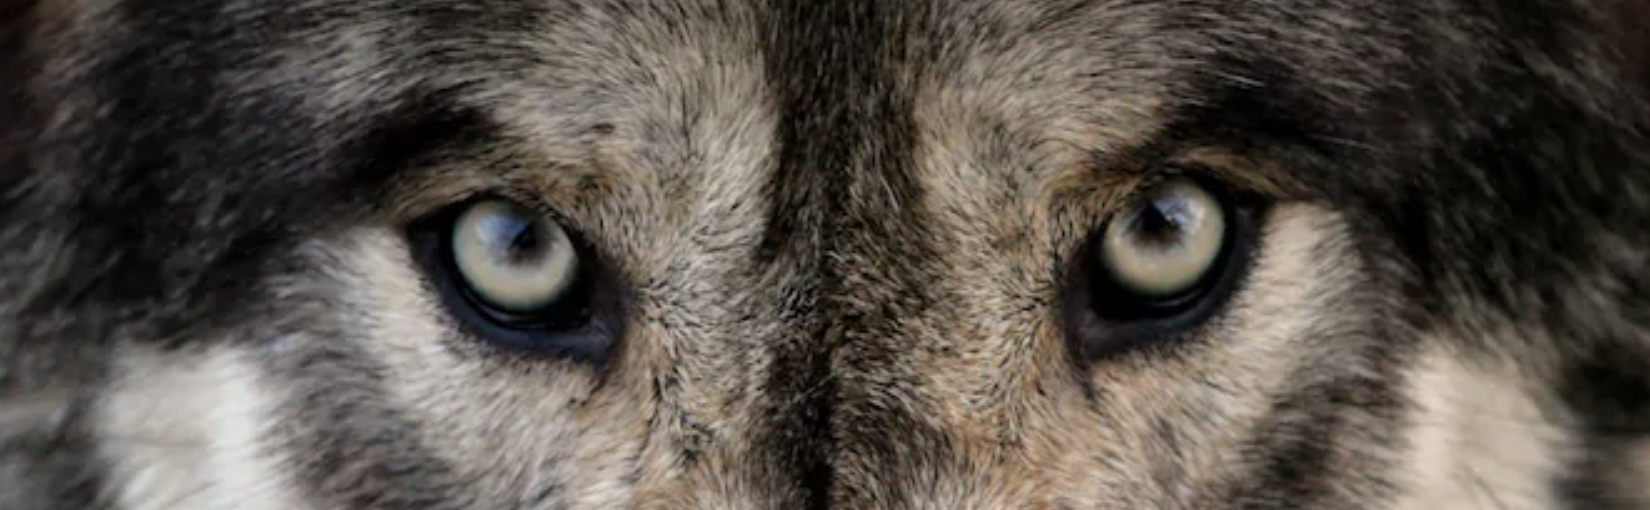
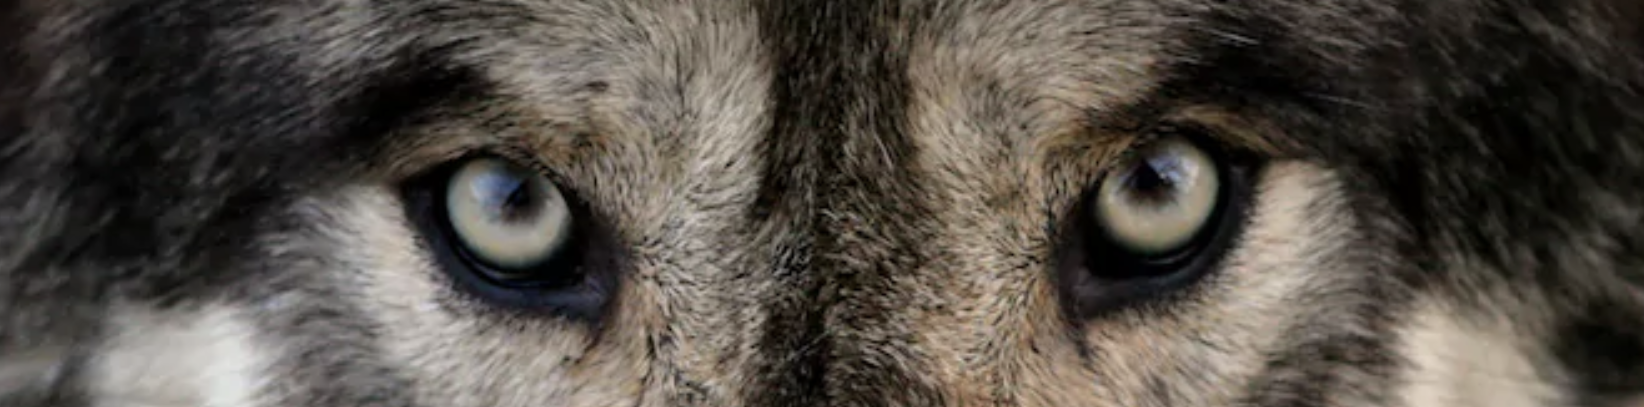
Se agrega modal y funcion de limpiar fomulario de -Quienes-

diff --git a/src/app/Components/quienes/quienes.component.html b/src/app/Components/quienes/quienes.component.html
@@ -1,9 +1,9 @@
-<div class="container">
+<div class="container letraStyle">
     <img src="../../../assets/ojosLobo.png" class="ojos">
-    <p>Caballeros Lycaon es un Motoclub (Mc) el cual se forma atra ves de un grupo de 
-        amigos que comparten la pasion por el motociclismo. Caracterizaso por un ambiente familiar y relajado.
+    <p><b class="titulos">Caballeros Lycaon</b> es un Motoclub (Mc) el cual se forma atra ves de un grupo de 
+        amigos que comparten la pasión por el motociclismo. Caracterizado por un ambiente familiar y relajado.
     </p>
-    <p>Significado del parche:
+    <p><b class="titulos">Significado del parche:</b>
         El escudo se forma principalmente por un lobo devorando una calavera. 
         Se escoge un lobo ya que representa a la mayoria de los integrantes, no solo por la vida nocturna
         tambien por la solidaridad en el grupo, la lealtan entre los miembros, el trabajo en equipo, entre todos nos cuidamos
@@ -16,18 +16,21 @@
     <div class="row">
         <div class="col-xs-12 col-md-6">
             <img src="../../../assets/cablleros.jpg" class="img-resonsive auyando" >
+            <p>
+                <b class="titulos">Nombre:</b>
+                    Nuestro nombre deriva de la leyenda del Rey Lycaon el primer rey de Arcadia, quien 
+                    junto con los sacrificios humanos estableció la antropofagia, o sea comer carne humana.
+            
+                    Sin embargo solo sacrificaba a loss forasteros, viajeros y turistas. Cuando esto llego a oidos de Zeus
+                    quiso ir a comprobarlo, se hizo pasar por un visitante, los arcadios se dieron cuenta que 
+                    era un dios porque reflejaba luz, pero el Rey Licaón, quiso saber si era o no un dios y le sirvió carne humana.
+                    Ya que pensaba que quizas seria un impostor, en cambio si éste era un Dios rechazaria la comida, 
+                    pues el canibalismo era una abominación en la cultura Griega.
+            </p>
         </div>
         <div class="col-xs-12 col-md-6">
-                <p>Nombre:
-                        Nuestro nombre dervia de la leyenda del Rey Lycaon el primer rey de Arcadia, quien 
-                        junto con los sacrificios humanos estableció la antropofagia, o sea comer carne humana.
-                
-                        Sin embargo solo sacrificaba a loss forasteros, viajeros y turistas. Cuando esto llego a oidos de Zeus
-                        quiso ir a comprobarlo, se hizo pasar por un visitante, los arcadios se dieron cuenta que 
-                        era un dios porque reflejaba luz, pero el Rey Licaón, quiso saber si era o no un dios y le sirvió carne humana.
-                        Ya que pensaba que quizas seria un impostor, en cambio si éste era un Dios rechazaria la comida, 
-                        pues el canibalismo era una abominación en la cultura Griega.
-                
+                <p>
+                   
                         En cuanto le sirvieron el festin a Zeus éste lo rechazo, enfureciendo de inmediato, 
                         con sus rayos destruyó todo, también el palacio, y como su nombre quiere decir lobo lo convirtió en un feroz lobo. 
                         Zeus maldijo al Rey Lycaon, le dio la gracia que cada diez años, sino había comido carne 
@@ -38,13 +41,13 @@
                 
                         Es asi como surge el Termino Lycantropo, pues el Rey Lycaon es el primer hombre lobo 
                         del que se tiene registro en ela historia.
-                
-                        Es de esta historia donde provienen nuestro emblema y nuestros colores (parche)
-                        El negro, representa la maldción que cayo sobre el Rey Lycaon.
-                        El blanco, representa al Dios Zeus y su resplandor cuando tormo forma humana.
-                        El rojo, la sangre de las víctimas derramada en los sacrificios.
-                        La corona, represnta al Rey Lycaon.
-                        Las estrellas, cuando se fundo el Club se empezo con 8 integrantes y es por eso que son 8 estrellas.
+                <br>
+                        Es de esta historia donde provienen nuestro emblema y nuestros colores (parche) <br>
+                        <b class="titulos">El negro,</b> representa la maldción que cayo sobre el Rey Lycaon. <br>
+                        <b class="titulos">El blanco,</b> representa al Dios Zeus y su resplandor cuando tormo forma humana.<br>
+                        <b class="titulos">El rojo,</b> la sangre de las víctimas derramada en los sacrificios.<br>
+                        <b class="titulos">La corona,</b> represnta al Rey Lycaon.<br>
+                        <b class="titulos">Las estrellas,</b> cuando se fundo el Club se empezo con 8 integrantes y es por eso que son 8 estrellas.
                     </p>
         </div>
     </div>

diff --git a/src/app/Components/formulario/formulario.component.html b/src/app/Components/formulario/formulario.component.html
@@ -1,28 +1,50 @@
-<form class="form-horizontal form-contactUs">
-    <p>Dejanos tu nombre, correo electronico y nosotros te responderemos a la brevedad,
-         os si lo deseas nos puedes contactar por nuestras redes sociales</p>
+<form class="form-horizontal form-contactUs" #f="ngForm" (ngSubmit)="f.form.valid && enviarMsj(f)">
+    <p>Dejanos tu nombre, correo electrónico y nosotros te responderemos a la brevedad,
+         ó si lo deseas nos puedes contactar por nuestras redes sociales.</p>
     <div class="row">
       <div class="col-md-6"> 
           <div class="form-group">
-              <label class="label-text control-label" for="nombre">Nombre</label>
-              <input type="text" class="form-control mb-2" id="nombre" placeholder="Nombre" required>
+              <label class="label-text control-label" for="nombre">Nombre:</label>
+              <input type="text" class="form-control mb-2" id="nombre" name="nombre" placeholder="Nombre" [(ngModel)]="nombre">
           </div>
           <div class="form-group">
-              <label class="label-text control-label" for="correo">Correo</label>
+              <label class="label-text control-label" for="correo">Correo:</label>
                   <div class="input-group mb-2">
                       <div class="input-group-prepend">
                         <div class="input-group-text">@</div>
                       </div>
-                      <input type="text" class="form-control" id="correo" placeholder="Correo">
+                      <input type="text" class="form-control" id="correo" name="correo" placeholder="Correo" [(ngModel)]="correo">
                   </div>
           </div>
       </div>
       <div class="col-xs-12 col-md-6">
         <div class="form-group">
-            <label class="label-text control-label" for="text-area-msj">Deja tu mensaje</label>
-            <textarea class="form-control" id="text-area-msj" rows="3" required></textarea>
+            <label class="label-text control-label" for="textAreaMsj">Deja tu mensaje:</label>
+            <textarea class="form-control" id="textAreaMsj" name="textAreaMsj" rows="3" [(ngModel)]="textAreaMsj"></textarea>
         </div>
-              <button type="submit" class="btn btn-primary mb-2">Enviar</button>         
+        <div class="form-group d-flex justify-content-center">
+            <button type="submit" class="btn btn-secondary mb-2"
+            data-toggle="modal" data-target="#exampleModal">Enviar</button>         
+        </div>
         </div>
     </div>
 </form>
+<div class="modal fade" id="exampleModal" tabindex="-1" role="dialog" aria-labelledby="exampleModalLabel" aria-hidden="true">
+        <div class="modal-dialog" role="document">
+          <div class="modal-content text-modal">
+            <div class="modal-header color-dark">
+              <h5 class="modal-title danger-color" id="exampleModalLabel">Mensaje enviado</h5>
+              <button type="button" class="close" data-dismiss="modal" aria-label="Close">
+                <span aria-hidden="true">&times;</span>
+              </button>
+            </div>
+            <div class="modal-body">
+              Muchas Gracias,pronto estaremos en contacto.<br>
+              Saludos!
+            </div>
+            <div class="modal-footer">
+              <button type="button" class="btn btn-secondary" data-dismiss="modal">OK</button>
+            </div>
+          </div>
+        </div>
+      </div>

diff --git a/src/app/Components/carrusel/carrusel.component.html b/src/app/Components/carrusel/carrusel.component.html
@@ -7,21 +7,21 @@
             <li data-target="#carouselExampleCaptions" data-slide-to="2"></li>
           </ol>
           <div class="carousel-inner">
-            <div class="carousel-item active">
+            <div class="carousel-item active" data-interval="3000">
               <img src="../../../assets/mcTodos.jpg" class="d-block w-100" alt="...">
               <div class="carousel-caption d-none d-md-block">
                   <h5>Familia Lycaon</h5>
                   <p>Más que un club, más que amigos, una gran familia!</p>
               </div>
             </div>
-            <div class="carousel-item">
+            <div class="carousel-item" data-interval="3000">
               <img src="../../../assets/centroOtomi.jpg" class="d-block w-100" alt="...">
               <div class="carousel-caption d-none d-md-block">
                 <h5>Centro Ceremonial Otomi. Temoaya</h5>
                 <p>Lorem ipsum dolor sit amet, consectetur adipiscing elit.</p>
               </div>
             </div>
-            <div class="carousel-item">
+            <div class="carousel-item" data-interval="3000">
               <img src="../../../assets/ajusco.jpg" class="d-block w-100" alt="...">
               <div class="carousel-caption d-none d-md-block">
                   <h5>Bajando del Ajusco</h5>

diff --git a/src/app/Components/formulario/formulario.component.ts b/src/app/Components/formulario/formulario.component.ts
@@ -1,5 +1,6 @@
 import { Component, OnInit } from '@angular/core';
 import { Persona } from '../../persona.model';
+import { NgForm } from '@angular/forms';
 
 
 @Component({
@@ -10,9 +11,9 @@ import { Persona } from '../../persona.model';
 })
 export class FormularioComponent implements OnInit {
 
-  
-  nombreInput:string;
-  apellidoInput:string;
+  nombre: string;
+  correo: string;
+  textAreaMsj: string;
 
   constructor() {
    
@@ -20,7 +21,19 @@ export class FormularioComponent implements OnInit {
 
   ngOnInit() {  }
 
-
+  enviarMsj(form: NgForm){
+  
+    console.log("hola "+form.value.nombre );
+    console.log("hola "+form.value.correo );
+    console.log("hola "+form.value.textAreaMsj );
+  
+    form.value.nombre;
+    form.value.correo;
+    form.value.textAreaMsj;
+    this.nombre = "";
+    this.correo = "";
+    this.textAreaMsj = "";
+  }
   
  
 }

diff --git a/src/app/Components/login/login.component.html b/src/app/Components/login/login.component.html
@@ -1,10 +1,9 @@
 <div class="d-flex justify-content-center">
-  
     <div class="" id="loginComponent" tabindex="-1" role="dialog" aria-labelledby="exampleModalCenterTitle" aria-hidden="true">
         <form class="form" #f="ngForm" (ngSubmit)="f.form.valid && loginSystem(f)">
           <h4 class="text">Ingresar</h4>
             <div class="col-centrada">
-              <label for="correo" class=" label-login">Correo</label>
+              <label for="correo" class="label-login">Correo</label>
               <input type="email" name="email" id="email" ngModel
               placeholder="@Email" class="form-control dark-input" >
             </div>

diff --git a/src/app/Components/quienes/quienes.component.css b/src/app/Components/quienes/quienes.component.css
@@ -1,9 +1,16 @@
 .ojos{
     width: 100%;
-    height: 40vh;
+    height: 28vh;
 }
 .auyando{
     width: 100%;
     height: 60vh;
-    
+}
+.titulos{
+	font-size: 4vh;
+}
+.letraStyle{
+	color: aliceblue;
+	font-size: 130%;
+	/* margin-top: 20px; */
 }

diff --git a/src/app/Components/formulario/formulario.component.css b/src/app/Components/formulario/formulario.component.css
@@ -4,3 +4,13 @@
 .label-text{
     color: #fff ;
 }
+.color-dark{
+  background-color: #45526e;
+}
+.text-modal{
+  color: black;
+  background-color: #e0e0e0;
+}
+.text-modal .danger-color{
+  color: #ff4444 !important;
+}
